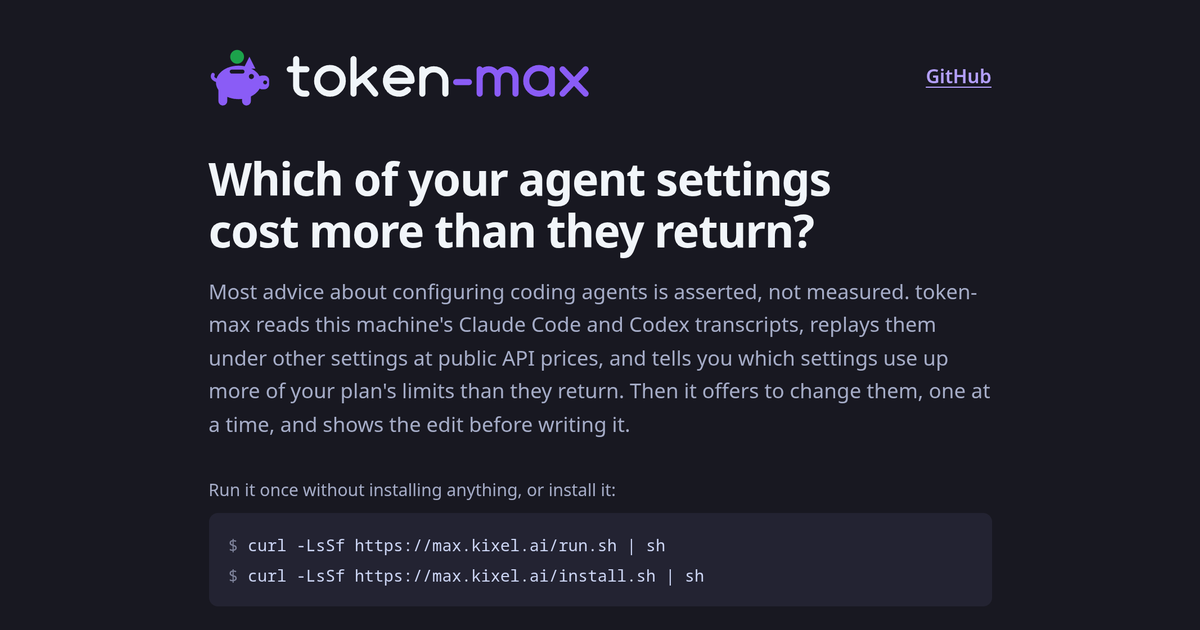
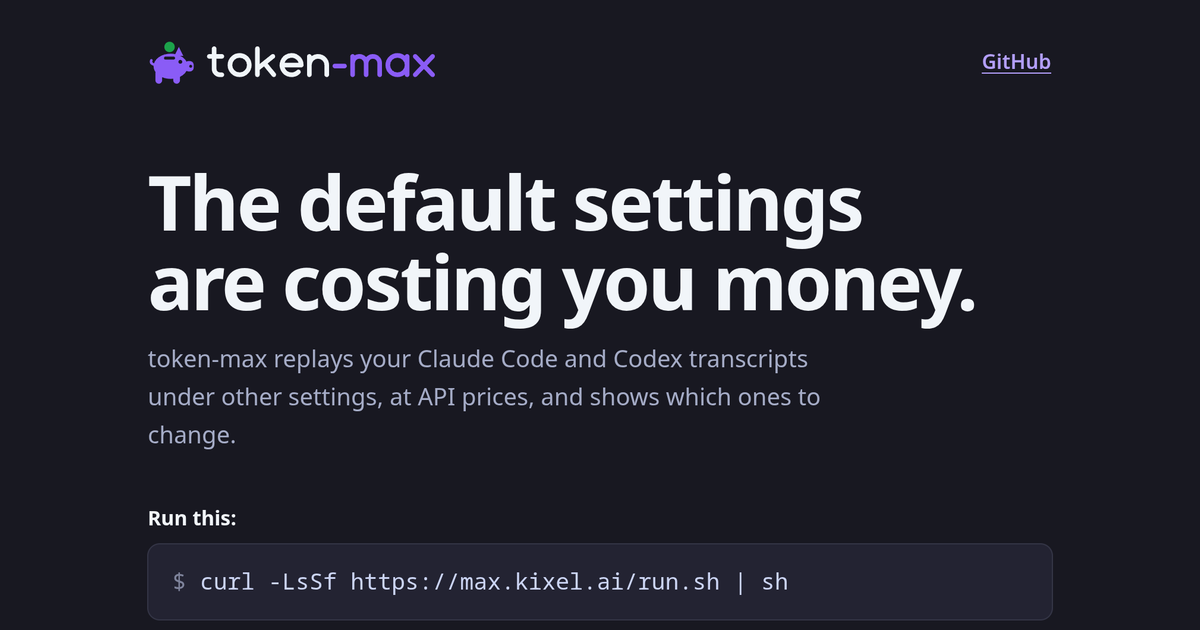
fix(site): fit the run line on a phone, retake the link preview

diff --git a/site/public/index.html b/site/public/index.html
@@ -35,7 +35,7 @@
   <pre class="run"><code><span class="cmd">curl -LsSf https://max.kixel.ai/run.sh | sh</span></code></pre>
   <p class="small">Windows: <code class="cmd">irm https://max.kixel.ai/run.ps1 | iex</code>.
   It changes nothing without a yes. Works from the first release on; until then,
-  <code class="cmd">cargo install --locked --git https://github.com/kixel-ai/token-max</code>.</p>
+  <a href="https://github.com/kixel-ai/token-max#install">build it from source</a>.</p>
 </section>
 
 <!-- The maintainer's results, as docs/results.md and the README's top give them; update all three together. -->
@@ -43,14 +43,14 @@
   <h2 id="found">On the maintainer's 56 days of Claude Code</h2>
   <div class="cards">
     <article class="card">
-      <p class="who">Subagents: 1h cache instead of the default 5m</p>
+      <h3 class="who">Subagent cache, 1h instead of 5m</h3>
       <p class="big">~15% cheaper</p>
       <p>Every Claude Code user's subagents cache for 5 minutes. An hour would have
       cost ~$6,105 less.</p>
       <code class="setting">"subagentPromptCacheTtl": "1h"</code>
     </article>
     <article class="card">
-      <p class="who">Main agent on an API key or usage credits: 1h instead of 5m</p>
+      <h3 class="who">API-key main agent, 1h instead of 5m</h3>
       <p class="big">~36% cheaper</p>
       <p>A plan's included usage gets 1 hour, but API keys and usage credits get 5
       minutes. An hour would

diff --git a/site/public/style.css b/site/public/style.css
@@ -49,6 +49,10 @@ code {
 	overflow-wrap: anywhere;
 }
 
+.small code {
+	white-space: nowrap;
+}
+
 .top,
 main > section,
 footer {
@@ -102,8 +106,10 @@ pre.run {
 	box-shadow: 0 0 0 1px var(--rule);
 }
 
+/* Wrapped rather than scrolled, so the whole command shows on a phone. */
 pre.run code {
-	font-size: clamp(0.9rem, 2.6vw, 1.2rem);
+	font-size: clamp(0.95rem, 2.6vw, 1.2rem);
+	white-space: pre-wrap;
 }
 
 /* A click selects the whole command, ready to copy, without a script. */
@@ -151,6 +157,7 @@ h2 {
 }
 
 .card .who {
+	margin: 0 0 0.75rem;
 	font-size: 0.9rem;
 	font-weight: 600;
 	color: var(--muted);

diff --git a/docs/releasing.md b/docs/releasing.md
@@ -60,7 +60,7 @@ pre-release notice, the two cache findings from `docs/results.md` and "How it
 knows"; change them together. Its
 recording, `walk.gif`, is the README's too, and `assets/demo/walk.tape`
 regenerates it. `og.png`, the link preview, is a 1200x630 screenshot of the
-page's top in dark mode, from the logo through the first install block;
+page's top in dark mode, from the logo through the run box;
 retake it after changing that part.
 
 Preview the page, its headers and redirects locally with
